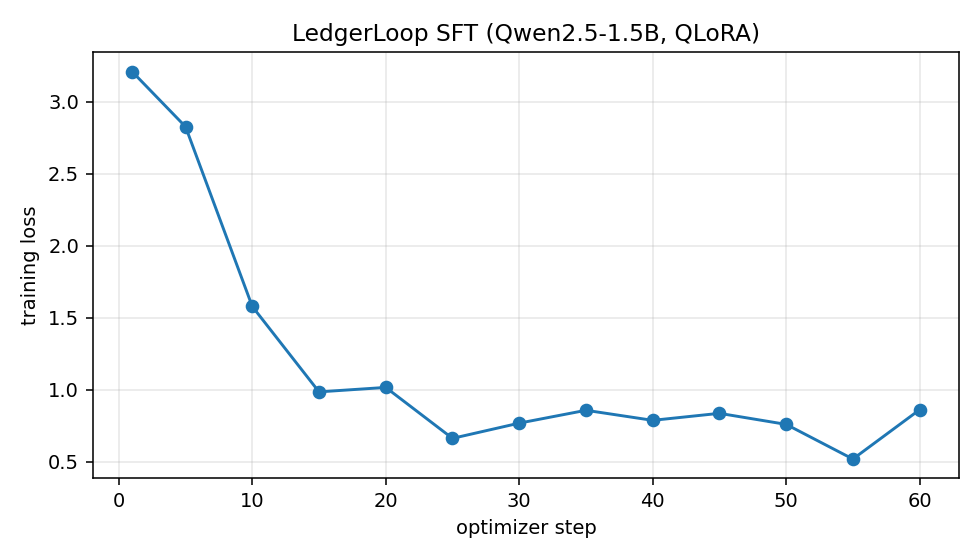
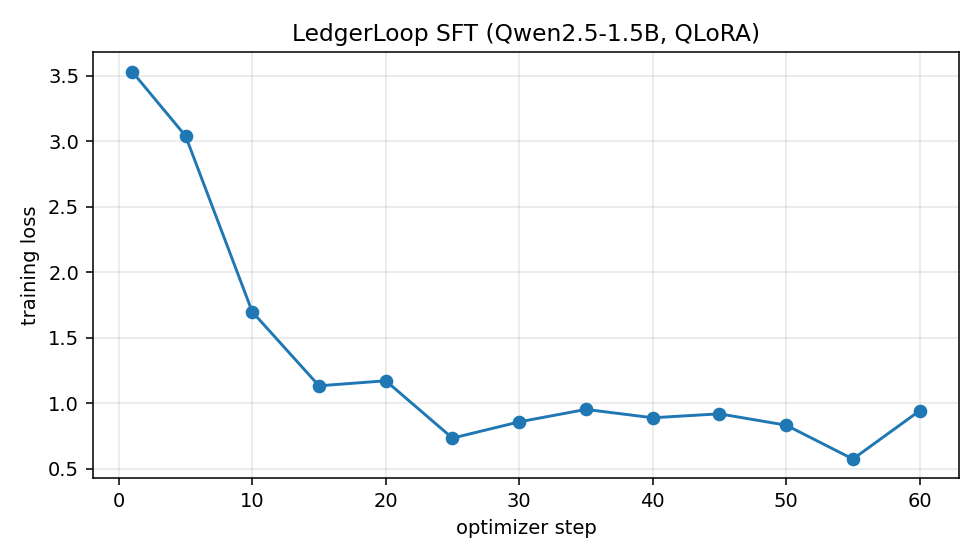
docs(sft): publish exact 1.5B metrics and F1 rationale

diff --git a/sft/README.md b/sft/README.md
@@ -13,15 +13,29 @@ measures instruction-following rather than only label accuracy.
 Evaluated on **30 held-out LedgerLoop transactions** (unseen merchants) and **25 held-out
 Dolly instructions**:
 
-| Metric | Base Qwen2.5-1.5B-Instruct | + LedgerLoop LoRA | Delta |
+| Metric (`JSON key`) | Base Qwen2.5-1.5B | + LedgerLoop LoRA (seed 42) | Delta |
 |---|---:|---:|---:|
-| Domain exact match | 26.7% | **86.7%** | **+60.0 pts** |
-| Domain token F1 | 26.7% | **86.7%** | +60.0 pts |
-| Format adherence (only one code) | 26.7% | **86.7%** | +60.0 pts |
-| Domain completion loss | 0.811 | **0.060** | **−92.6%** |
-| Dolly completion loss | 2.517 | **1.544** | −38.7% |
-| Overall completion loss | 2.047 | **1.722** | −15.9% |
-| Overall perplexity | 7.74 | **5.60** | −27.7% |
+| Held-out domain exact match (`domain_exact_match`) | 0.266667 | **0.866667** | +0.600000 |
+| Domain token F1 (`domain_token_f1`) | 0.266667 | **0.866667** | +0.600000 |
+| Format adherence (`format_adherence`) | 0.266667 | **0.866667** | +0.600000 |
+| Domain completion loss (`loss_by_source.ledgerloop`) | 0.810746 | **0.060118** | −0.750628 |
+| Dolly completion loss (`loss_by_source.dolly`) | 2.517077 | **1.544232** | −0.972845 |
+| Overall completion loss (`completion_loss`) | 2.047040 | **1.722272** | −0.324768 |
+| Overall perplexity (`perplexity`) | 7.744946 | **5.597230** | −2.147715 |
+
+Rates are fractions (multiply by 100 for percent). `perplexity = exp(completion_loss)`;
+the evaluator computes it with float32 `torch.exp`. Full-precision values are in
+`results/eval_base.json` and `results/eval_adapter.json`.
+
+### Why token F1 equals exact match
+
+The F1 implementation has no EM fallback. It is standard multiset token F1 over
+whitespace tokens, but both the normalized prediction and gold target are exactly one
+of the 13 allowed category codes, each a single token (`PROFESSIONAL_SERVICES` contains
+an underscore, not a space). A one-token prediction therefore scores either 1.0 when it
+matches the one-token gold or 0.0 when it does not, so the mean token F1 is exactly
+accuracy. This is constrained label generation, not free-form completion; Dolly is
+evaluated by loss only.
 
 Training run (seed 42): **63 optimizer steps**, **6m39s (398.85s)** on a free Colab T4,
 average train loss **1.025**, last logged step loss **0.863**, SFTTrainer full-sequence
@@ -42,6 +56,9 @@ are under `results/seeds/<seed>/`; `results/seeds/multiseed_summary.json` is gen
 | 1 | 90.0% | 90.0% | 0.057 | 1.546 | 5.592 | 1.007 | 6m44s |
 | 2 | 90.0% | 90.0% | 0.066 | 1.541 | 5.612 | 1.010 | 6m34s |
 | **Mean ± std** | **88.9% ± 1.9 pts** | **88.9% ± 1.9 pts** | 0.061 ± 0.004 | 1.544 ± 0.002 | 5.600 ± 0.011 | 1.014 ± 0.010 | 6m39s ± 5s |
+
+Raw aggregate: `domain_exact_match = 0.888888888888889 ± 0.01924500897298752`;
+`domain_token_f1` is identical for the reason above.
 
 > Evaluation loss is higher than the Trainer's `eval_loss` because `evaluate_sft.py`
 > masks the prompt and scores only completion tokens.

diff --git a/README.md b/README.md
@@ -425,10 +425,23 @@ LedgerLoop GL-coding pairs. It is distinct from `gpu/finetune_qlora.py` (classif
 style, rented GPU): this one trains prompt→response instructions and runs on a free T4.
 
 On 30 held-out transactions from unseen merchants, exact match improves from **26.7%
-(base)** to **86.7% (LoRA, seed 42)**; domain completion loss falls 0.811 → **0.060** and
-Dolly completion loss 2.517 → **1.544**. Across seeds 42/1/2, exact match and token F1 are
+(base)** to **86.7% (LoRA, seed 42)**. Across seeds 42/1/2, exact match and token F1 are
 **88.9% ± 1.9 points**. Training uses 4-bit NF4, LoRA r=16, 3 epochs, effective batch 16
 and 512-token sequences: 63 steps / **6m39s** on a Tesla T4, train loss **1.025**.
+
+| Metric (`JSON key`) | Base Qwen2.5-1.5B | + LedgerLoop LoRA (seed 42) |
+|---|---:|---:|
+| Held-out domain exact match (`domain_exact_match`) | 0.266667 | **0.866667** |
+| Domain token F1 (`domain_token_f1`) | 0.266667 | **0.866667** |
+| Format adherence (`format_adherence`) | 0.266667 | **0.866667** |
+| Domain completion loss (`loss_by_source.ledgerloop`) | 0.810746 | **0.060118** |
+| Dolly completion loss (`loss_by_source.dolly`) | 2.517077 | **1.544232** |
+| Overall completion loss (`completion_loss`) | 2.047040 | **1.722272** |
+| Overall perplexity (`perplexity`) | 7.744946 | **5.597230** |
+
+`perplexity = exp(completion_loss)` (computed with float32 `torch.exp`). Token F1 equals
+exact match here because both prediction and gold are normalized to one of 13
+single-token GL codes; the evaluator has no EM fallback.
 
 **What this demonstrates:** instruction fine-tuning (SFT) with `trl.SFTTrainer`, domain
 adaptation to GL-coding, data preprocessing (Qwen ChatML formatting), evaluation with

diff --git a/sft/results/seeds/README.md b/sft/results/seeds/README.md
@@ -11,5 +11,6 @@ Model: `Qwen/Qwen2.5-1.5B-Instruct`, 4-bit NF4 QLoRA, free Colab Tesla T4.
 
 Each `<seed>/` directory contains `train.log`, `train_metrics.json`,
 `trainer_log_history.json`, `loss_log.csv`, `loss_curve.png` and `eval_adapter.json`.
+Token F1 equals exact match because predictions and gold targets are single-token GL codes.
 `base_eval.json` is the shared 1.5B base-model evaluation. `multiseed_summary.json` is
 generated by `python sft/aggregate_seeds.py`.
